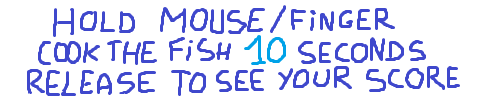
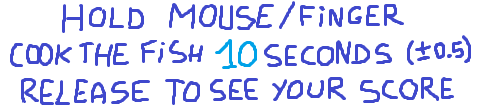
score

diff --git a/index.html b/index.html
@@ -17,10 +17,17 @@
 <img src=start.png id=start hidden>
 <img src=title.png id=title hidden>
 <img src=l1top.png id=l1top hidden>
+<img src=tooraw.png id=tooraw hidden>
+<img src=burnt.png id=burnt hidden>
+<img src=ok.png id=ok hidden>
+<img src=hand.png id=hand hidden>
 <body style="overflow:hidden;font-family:pangolin">.
 <canvas id=a style="position:fixed;top:50%;left:50%;transform:translateX(-50%)translateY(-50%);cursor:pointer;width:100vmin;height=100vmin;">
 
 <script>
+state = 0;
+white = 0;
+
 onload = () => {
   W = a.width = 600;
   H = a.height = 600;
@@ -30,6 +37,8 @@ onload = () => {
 }
 
 draw = () => {
+
+console.log(white)
 
   a.width ^= 0;
 
@@ -51,7 +60,7 @@ draw = () => {
   }
   
   // Levels
-  else if(state == 2){
+  else if(state == 2 && !white){
     if(level == 1){
       c.drawImage(l1top, W/2 - 250, H/2 - 260);
       c.drawImage(window["gas" + anim], W/2 - 250, H/2 - 80);
@@ -67,27 +76,39 @@ draw = () => {
       else {
         c.drawImage(pan1, W/2 - 250, H/2 - 20);
         c.drawImage(fish1, W/2 - 30, H/2 + 70);
-        c.globalAlpha = fry / 100;
+        c.globalAlpha = fry / 200;
         c.drawImage(fish2, W/2 - 30, H/2 + 70);
         c.globalAlpha = 1;
         c.drawImage(pan2, W/2 - 250, H/2 - 20);
         c.drawImage(window["smoke" + anim], W/2 - 300, H/2 - 100);
       }
       
-      if(md){
+      if(md && !showscore){
         timer = (new Date() - timer0);
-        console.log(timer);
         if(timer < 3000){
           c.font = '50px pangolin';
           c.globalAlpha = Math.max(((1 / (timer / 1000)) - 0.3), 0);
-          c.fillText((timer/1000).toFixed(1) + "s", 150, 250);
+          c.fillText((timer/1000).toFixed(2) + "s", 150, 250);
           c.globalAlpha = 1;
         }
       }
       
-      if(!md && released){
+      if(!md && released && !showscore){
         c.font = '50px pangolin';
-        c.fillText((timer/1000).toFixed(1) + "s", 250, 250);
+        c.fillText((timer/1000).toFixed(2) + "s", 250, 250);
+      }
+      
+      if(showscore){
+        c.drawImage(hand, W/2 + 200, H/2 - 100);
+        if(timer < 9.5 * 1000){
+          c.drawImage(tooraw, W/2 - 100, H/2 - 100);
+        }
+        if(timer >= 9.5 * 1000 && timer <= 10.5 * 1000){
+          c.drawImage(ok, W/2 - 100, H/2 - 100);
+        }
+        if(timer > 10.5 * 1000){
+          c.drawImage(burnt, W/2 - 100, H/2 - 100);
+        }
       }
     }
   }
@@ -95,22 +116,26 @@ draw = () => {
 
 onclick = (e) => {
 
-  X = e.pageX;
-  Y = e.pageY;
-  
-  // Title
-  if(state == 0){
-    state = 1;
-    draw();
-  }
-  
-  // Rules
-  else if(state == 1){
-    state = 2;
-    level = 1;
-    fry = 0;
-    released = 0;
-    draw();
+  if(!showscore){
+    
+    X = e.pageX;
+    Y = e.pageY;
+    
+    // Title
+    if(state == 0){
+      state = 1;
+      draw();
+    }
+    
+    // Rules
+    else if(state == 1){
+      state = 2;
+      level = 1;
+      fry = 0;
+      released = 0;
+      showscore = 0;
+      draw();
+    }
   }
 }
 
@@ -118,20 +143,44 @@ md = 0;
 mdtimeout = 0;
 timer0 = 0;
 timer = 0;
+showscore = 0;
 
 onmousedown = () => {
- mdtimeout = setTimeout(()=>{md=1; timer0 = new Date(); }, 34);
- 
+ if(!showscore)
+   mdtimeout = setTimeout(()=>{
+     md=1;
+     timer0 = new Date();
+   }, 34);
 }
 
 
 onmouseup = () => {
- clearTimeout(mdtimeout);
- if(md) released = 1;
- timer = (new Date()) - timer0;
- console.log(+new Date())
- md=0;
- draw();
+ if(!showscore){
+   clearTimeout(mdtimeout);
+   if(md) released = 1;
+   timer = (new Date()) - timer0;
+   md=0;
+   draw();
+   if(state == 2){
+    setTimeout(()=>{
+      showscore=1;
+      setTimeout(()=>{
+        white = 1;
+        draw();
+      }, 1700);
+      
+      setTimeout(()=>{
+        state = 2;
+        level = 1;
+        fry = 0;
+        released = 0;
+        showscore = 0;
+        white = 0;
+        draw();
+      }, 2000);
+    }, 1000);
+   }
+ }
 }
 
 anim = 1;
@@ -146,7 +195,7 @@ setInterval(()=>{
     fry ++;
     draw();
   }
-},100);
+},33);
 </script>
 
 <style>
